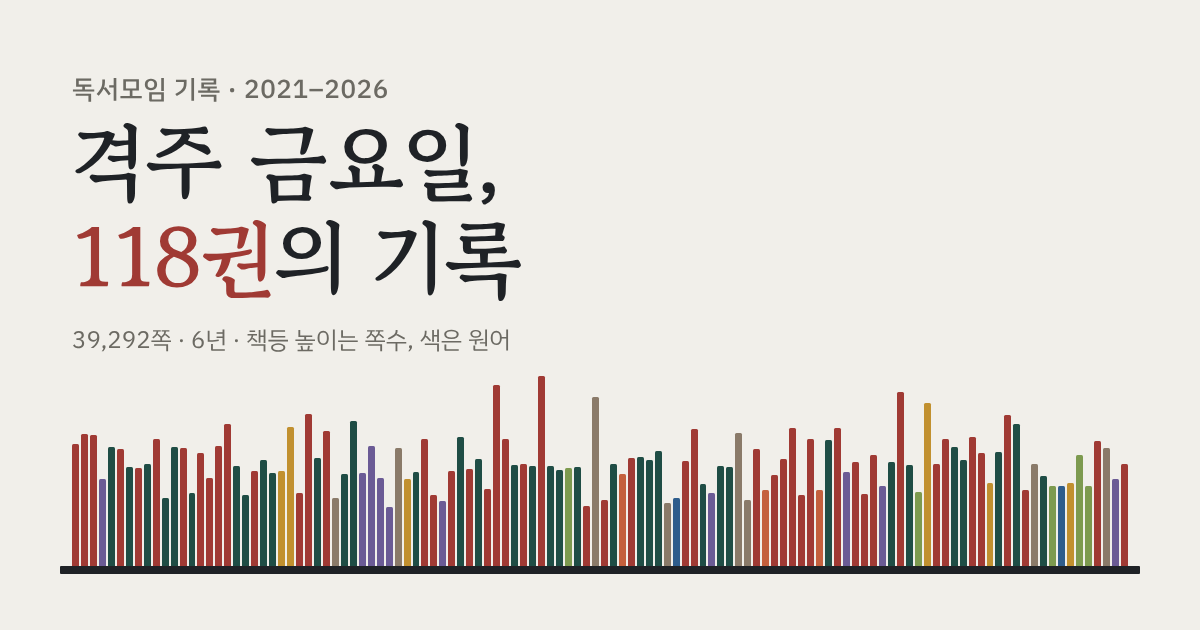
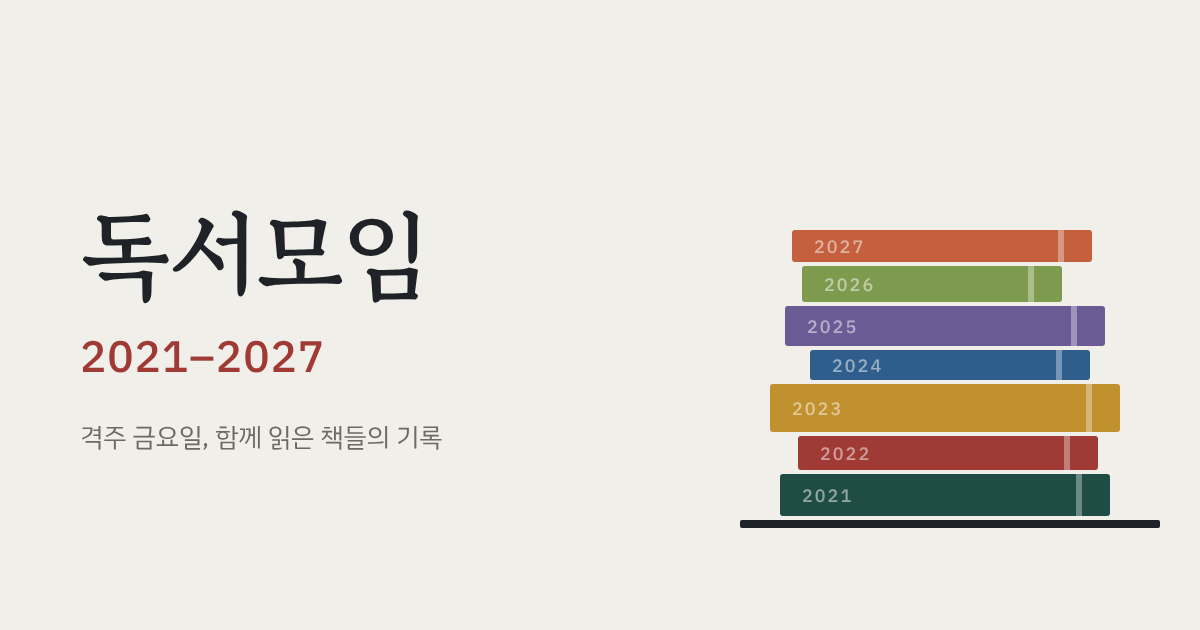
미리보기 이미지를 쌓인 책 디자인(2021–2027)으로 교체
Claude-Session: https://claude.ai/code/session_015nyXP2dM2ERdAh8CRHranB

Changed region(s): [[0.0308, 0.3619, 0.9867, 0.9349], [0.0617, 0.1206, 0.4317, 0.4825], [0.0617, 0.5127, 0.4317, 0.6032]]

diff --git a/index.html b/index.html
@@ -2,12 +2,12 @@
 <html lang="ko"><head><meta charset="utf-8">
 <meta name="viewport" content="width=device-width, initial-scale=1">
 <title>독서모임 기록 2021–2026</title>
-<meta name="description" content="격주 금요일마다 함께 읽은 책 118권의 기록 — 연도·장르·원어별로 돌아보기">
+<meta name="description" content="격주 금요일, 함께 읽은 책들의 기록 — 연도·장르·원어별로 돌아보기">
 <meta property="og:type" content="website">
 <meta property="og:url" content="https://abbcbba.github.io/Bookclub/">
-<meta property="og:title" content="독서모임 기록 2021–2026">
-<meta property="og:description" content="격주 금요일마다 함께 읽은 책 118권의 기록 — 연도·장르·원어별로 돌아보기">
-<meta property="og:image" content="https://abbcbba.github.io/Bookclub/og-image.png?v=20261126">
+<meta property="og:title" content="독서모임 2021–2027">
+<meta property="og:description" content="격주 금요일, 함께 읽은 책들의 기록 — 연도·장르·원어별로 돌아보기">
+<meta property="og:image" content="https://abbcbba.github.io/Bookclub/og-image.png?v=20261126b">
 <meta property="og:image:width" content="1200">
 <meta property="og:image:height" content="630">
 <meta name="twitter:card" content="summary_large_image">
